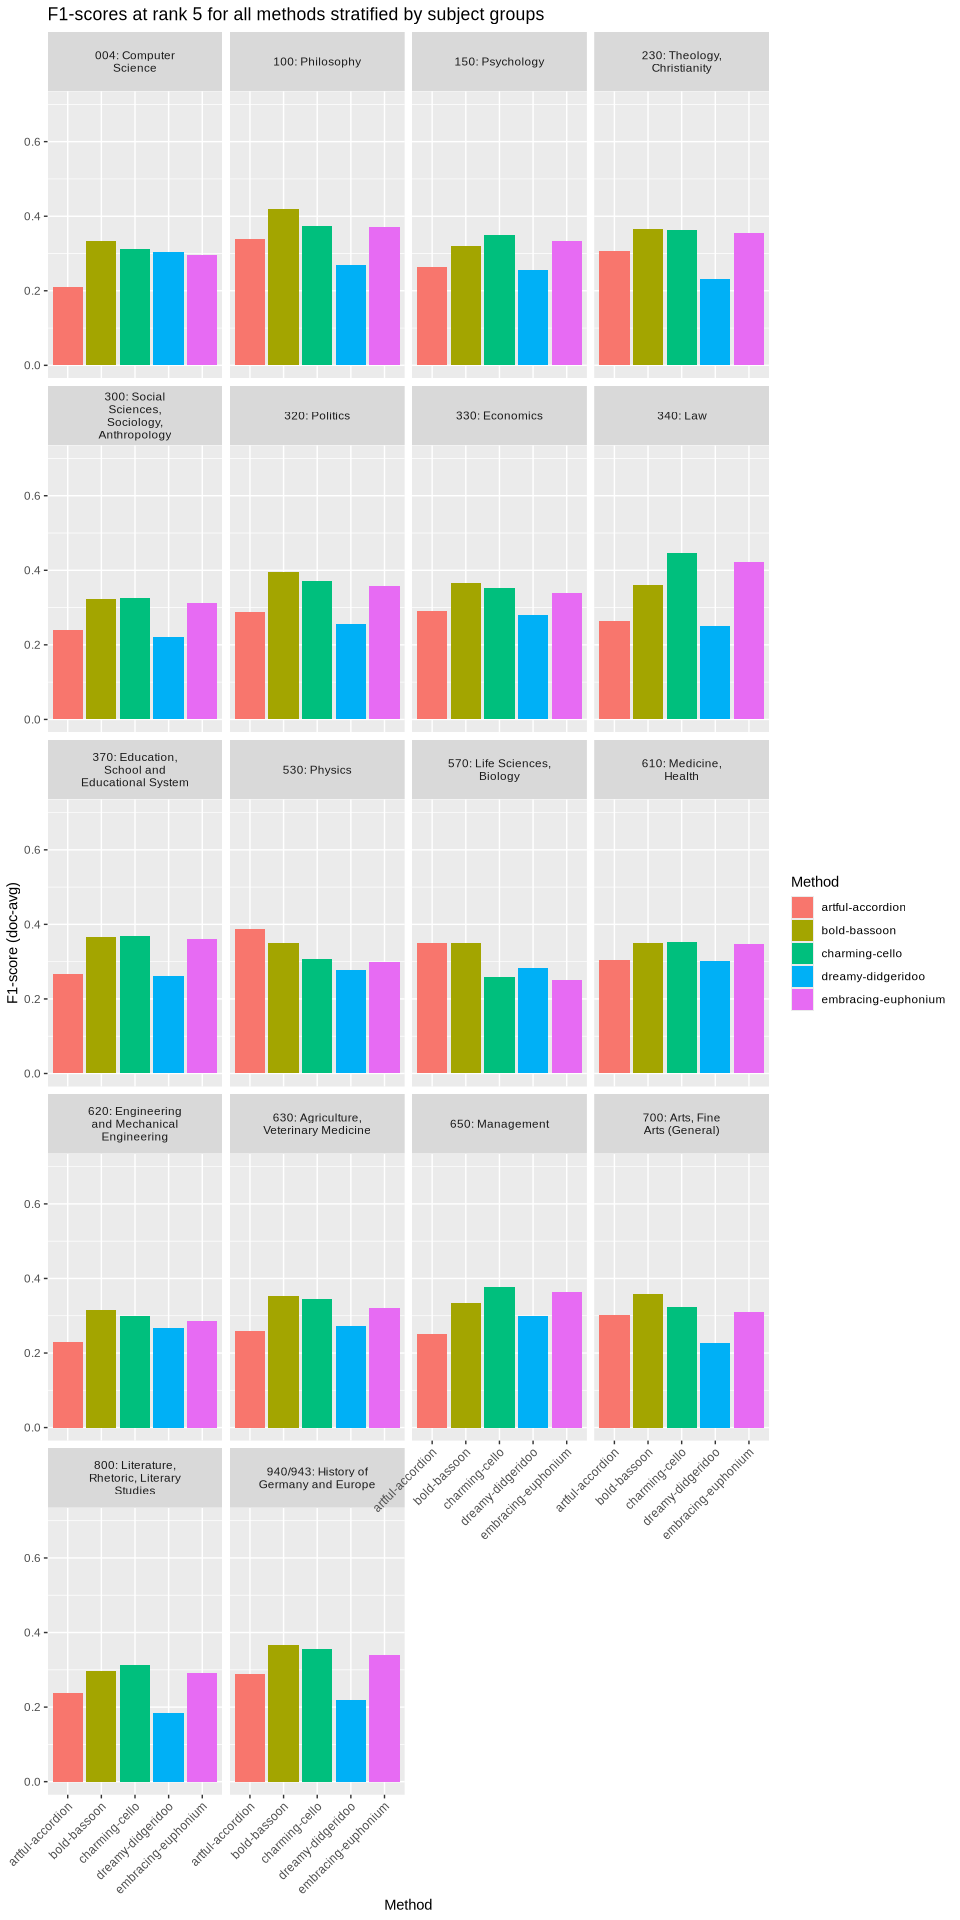
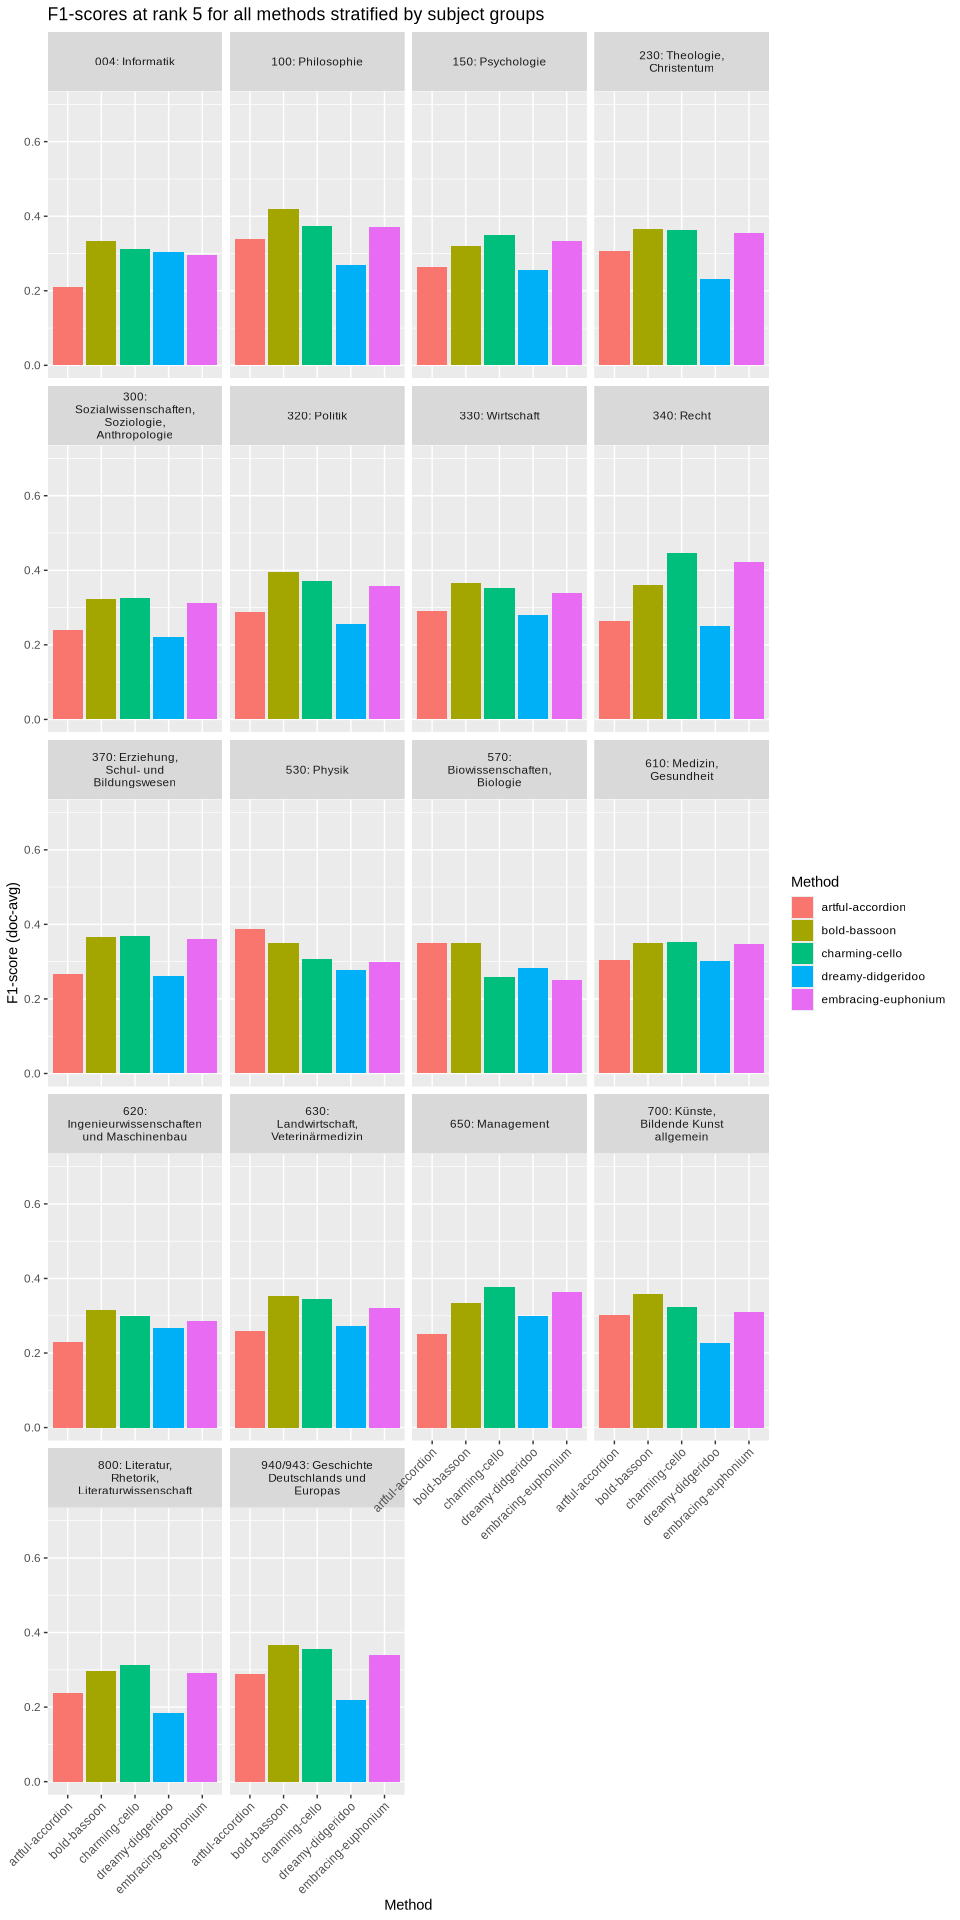
Correct Typos and switch default language to _ger in example output
Correct Typos and switch default language to _ger in example output

* switch examples to _ger version in default

* update md file for wb 06

---------

diff --git a/workbooks/02_set-retrieval-metrics.md b/workbooks/02_set-retrieval-metrics.md
@@ -3,8 +3,8 @@ Maximilian Kähler, DNB
 
 - [Computing overall set retrieval
   metrics](#computing-overall-set-retrieval-metrics)
-- [Finding buttom and top performerming
-  labels](#finding-buttom-and-top-performerming-labels)
+- [Finding buttom and top performing
+  labels](#finding-buttom-and-top-performing-labels)
 - [Your Turn](#your-turn)
 - [Bonus: A short digression to modes of
   aggregation](#bonus-a-short-digression-to-modes-of-aggregation)
@@ -99,7 +99,7 @@ results <- map_dfr(
   .id = "Method"
 )
 
-# bring results to wide tible for better display
+# bring results to wide table for better display
 results |> 
   select(-support) |> 
   pivot_wider(
@@ -155,10 +155,10 @@ the actual values in the data table to get a true sense of the
 performance differences.
 </details>
 
-## Finding buttom and top performerming labels
+## Finding buttom and top performing labels
 
 If you want to drill down into results on subject level, CASIMiR also
-provides functions to disect results on the intermediate aggregation
+provides functions to dissect results on the intermediate aggregation
 level. The above function `compute_set_retrieval_scores()` is just a
 convenient wrapper around three steps:
 
@@ -167,7 +167,7 @@ convenient wrapper around three steps:
 2.  `compute_intermediate_results()`: computes true positives, false
     positives, and false negatives on the desired aggregation level (per
     document or per subject).
-3.  `summarise_intermediate_results()` computes avarages of the
+3.  `summarise_intermediate_results()` computes averages of the
     intermediate results to yield the final precision, recall, and
     F1-score.
 
@@ -176,7 +176,7 @@ for `artful-accordion`.
 
 ``` r
 label_texts <- read_csv("../data/gnd_pref-labels_w-translation.csv",
-                        col_select = c("label_id", "label_text_eng"))
+                        col_select = c("label_id", "label_text_ger"))
 
 # join predictions with gold standard for one method
 comp <- create_comparison(
@@ -196,35 +196,35 @@ intermed <- compute_intermediate_results(
 intermed |>
   filter(n_gold > 20) |> 
   arrange(desc(f1)) |> 
-  select(label_id, label_text_eng, tp, fp, fn, prec, rec, f1) |> 
+  select(label_id, label_text_ger, tp, fp, fn, prec, rec, f1) |> 
   head(n = 10) |> 
   kable(
-    caption = "Best performing subject terms for artful-accordion with a mininimum of
+    caption = "Best performing subject terms for artful-accordion with a minimum of
      20 gold standard instances."
   )
 ```
 
-| label_id  | label_text_eng             |  tp |  fp |  fn |      prec |       rec |        f1 |
+| label_id  | label_text_ger             |  tp |  fp |  fn |      prec |       rec |        f1 |
 |:----------|:---------------------------|----:|----:|----:|----------:|----------:|----------:|
 | 118559796 | Kant, Immanuel (1724-1804) |  20 |   5 |   7 | 0.8000000 | 0.7407407 | 0.7692308 |
 | 040402223 | Moral                      |  20 |  11 |   4 | 0.6451613 | 0.8333333 | 0.7272727 |
-| 040464962 | Poland                     |  16 |   1 |  11 | 0.9411765 | 0.5925926 | 0.7272727 |
-| 040598276 | Thermodynamics             |  15 |   3 |   9 | 0.8333333 | 0.6250000 | 0.7142857 |
-| 04045956X | Physics                    |  44 |  31 |   7 | 0.5866667 | 0.8627451 | 0.6984127 |
-| 040300463 | Cat                        |  19 |  16 |   2 | 0.5428571 | 0.9047619 | 0.6785714 |
+| 040464962 | Polen                      |  16 |   1 |  11 | 0.9411765 | 0.5925926 | 0.7272727 |
+| 040598276 | Thermodynamik              |  15 |   3 |   9 | 0.8333333 | 0.6250000 | 0.7142857 |
+| 04045956X | Physik                     |  44 |  31 |   7 | 0.5866667 | 0.8627451 | 0.6984127 |
+| 040300463 | Katze                      |  19 |  16 |   2 | 0.5428571 | 0.9047619 | 0.6785714 |
 | 040489469 | Reformation                |  13 |   5 |   9 | 0.7222222 | 0.5909091 | 0.6500000 |
-| 040306380 | Childcare facility         |  13 |   6 |   9 | 0.6842105 | 0.5909091 | 0.6341463 |
-| 974041238 | Resilience                 |  13 |   1 |  14 | 0.9285714 | 0.4814815 | 0.6341463 |
-| 042979293 | Mindfulness                |  12 |   4 |  10 | 0.7500000 | 0.5454545 | 0.6315789 |
+| 040306380 | Kindertagesstätte          |  13 |   6 |   9 | 0.6842105 | 0.5909091 | 0.6341463 |
+| 974041238 | Resilienz                  |  13 |   1 |  14 | 0.9285714 | 0.4814815 | 0.6341463 |
+| 042979293 | Achtsamkeit                |  12 |   4 |  10 | 0.7500000 | 0.5454545 | 0.6315789 |
 
-Best performing subject terms for artful-accordion with a mininimum of
-20 gold standard instances.
+Best performing subject terms for artful-accordion with a minimum of 20
+gold standard instances.
 
 ``` r
 intermed |>
   filter(n_gold > 20) |> 
   arrange(f1) |> 
-  select(label_id, label_text_eng, tp, fp, fn, prec, rec, f1) |> 
+  select(label_id, label_text_ger, tp, fp, fn, prec, rec, f1) |> 
   head(n = 10) |> 
   kable(
     caption = "Worst performing subject terms for artful-accordion with a minimum of
@@ -232,18 +232,18 @@ intermed |>
   )
 ```
 
-| label_id | label_text_eng | tp | fp | fn | prec | rec | f1 |
+| label_id | label_text_ger | tp | fp | fn | prec | rec | f1 |
 |:---|:---|---:|---:|---:|---:|---:|---:|
-| 040205487 | Gender Ratio | 0 | 1 | 25 | 0.0000000 | 0.0000000 | 0.0000000 |
-| 040300056 | Catholic theology | 0 | 1 | 22 | 0.0000000 | 0.0000000 | 0.0000000 |
-| 040665968 | Scientific manuscript | 0 | 0 | 34 | NA | 0.0000000 | 0.0000000 |
-| 041849450 | Text production | 0 | 1 | 25 | 0.0000000 | 0.0000000 | 0.0000000 |
-| 042090377 | Testing site | 0 | 4 | 27 | 0.0000000 | 0.0000000 | 0.0000000 |
-| 949300403 | Python (Programming Language) | 0 | 0 | 21 | NA | 0.0000000 | 0.0000000 |
-| 965002845 | Inclusion (Sociology) | 0 | 0 | 22 | NA | 0.0000000 | 0.0000000 |
-| 041132920 | German | 4 | 180 | 23 | 0.0217391 | 0.1481481 | 0.0379147 |
-| 040158330 | Protestant Church | 1 | 5 | 44 | 0.1666667 | 0.0222222 | 0.0392157 |
-| 040124754 | Discourse | 2 | 14 | 32 | 0.1250000 | 0.0588235 | 0.0800000 |
+| 040205487 | Geschlechterverhältnis | 0 | 1 | 25 | 0.0000000 | 0.0000000 | 0.0000000 |
+| 040300056 | Katholische Theologie | 0 | 1 | 22 | 0.0000000 | 0.0000000 | 0.0000000 |
+| 040665968 | Wissenschaftliches Manuskript | 0 | 0 | 34 | NA | 0.0000000 | 0.0000000 |
+| 041849450 | Textproduktion | 0 | 1 | 25 | 0.0000000 | 0.0000000 | 0.0000000 |
+| 042090377 | Prüfstand | 0 | 4 | 27 | 0.0000000 | 0.0000000 | 0.0000000 |
+| 949300403 | Python (Programmiersprache) | 0 | 0 | 21 | NA | 0.0000000 | 0.0000000 |
+| 965002845 | Inklusion (Soziologie) | 0 | 0 | 22 | NA | 0.0000000 | 0.0000000 |
+| 041132920 | Deutsch | 4 | 180 | 23 | 0.0217391 | 0.1481481 | 0.0379147 |
+| 040158330 | Evangelische Kirche | 1 | 5 | 44 | 0.1666667 | 0.0222222 | 0.0392157 |
+| 040124754 | Diskurs | 2 | 14 | 32 | 0.1250000 | 0.0588235 | 0.0800000 |
 
 Worst performing subject terms for artful-accordion with a minimum of 20
 gold standard instances.
@@ -297,7 +297,7 @@ avoids zero-division issues. To be coherent with other packages like
 [scikit-learn](https://scikit-learn.org/stable/modules/generated/sklearn.metrics.f1_score.html),
 you can change this behaviour by using the argument
 `replace_zero_division_with = 0` which will set precision to 0 for
-documents or subject terms with no predictions, if they have occurences
+documents or subject terms with no predictions, if they have occurrences
 in the gold standard.
 
 Observe how much this can influence the overall value of precision and

diff --git a/workbooks/01_inspecting-results-manually.md b/workbooks/01_inspecting-results-manually.md
@@ -88,7 +88,7 @@ the document.
 ### Gold Standard Data
 
 Each of the document titles was manually annotated by subject experts of
-the DNB with subject terms from the Inegrated Authority File (GND).
+the DNB with subject terms from the Integrated Authority File (GND).
 Similar to the document identifiers, each GND subject term has a unique
 identifier, the `label_id`, which can be resolved to the official GND
 record by prefixing the base-url `https://d-nb.info/`,
@@ -123,7 +123,7 @@ head(gold_standard_w_labels)
     5 1122545479 042718368 Prädiktive Regelung Predictive Control 
     6 1122545479 043049168 Systemmodell        System model       
 
-For the rest of this tutorial This is our gold standard data that we
+For the rest of this tutorial this is our gold standard data that we
 compare against.
 
 ### Predictions
@@ -196,7 +196,7 @@ comp <- create_comparison(
 ```
 
     Warning in create_comparison(predicted = predictions[["artful-accordion"]], :
-    Gold standard data contains documents that are not in predicted set.
+    gold standard data contains documents that are not in predicted set
 
 ``` r
 # display table for a specific document
@@ -235,13 +235,13 @@ sample_docs <- sample_n(doc_titles, size = 5)
 #   doc_id = c("1128159244", "1223180417", "1168229987")
 # )
 
-# modify `_eng` to `_ger` to see German original texts
+# modify `_ger` to `_eng` to see AI translated english texts
 qual_table <- create_qualitative_table(
   predicted = predictions,
   gold_standard = gold_standard,
   doc_id_list = select(sample_docs, doc_id),
-  gnd = select(gnd_pref_labels, label_id, label_text = label_text_eng),
-  title_texts = select(doc_titles, doc_id, title = doc_title_eng),
+  gnd = select(gnd_pref_labels, label_id, label_text = label_text_ger),
+  title_texts = select(doc_titles, doc_id, title = doc_title_ger),
   limit = 5 # how many suggestions per method to consider?
 )
 

diff --git a/data/README.md b/data/README.md
@@ -19,7 +19,7 @@ DNB's catalogue is provided under a
 LICENSE and may be freely used. 
 Each intentifier can be resolved using the DNB's catalogue, by prefixing
 `https://d-nb.info/`, e.g. `doc_id = 1122545479` can be resolved to
-<https://d-nb.info/1122545479>, to access the full bilbiographic record.
+<https://d-nb.info/1122545479>, to access the full bibliographic record.
 
 ## Test-Set
 
@@ -193,7 +193,7 @@ format:
 
   * `doc_id`: Identifier for documents
   * `label_id`: Identifier for the GND label
-  * `score`: Machine based confidence score for the prediction (higher is better)
+  * `score`: Machine based confidence score for the prediction (higher is more confident)
   * `relevance`: Manual expert rating on relevance
 
 Relevance ratings take values (0,1/3,2/3,1) corresponding to an ordinal rating
@@ -204,13 +204,13 @@ of
   * `1/3`: slightly useful
   * `0`: wrong
 
-where the usefulness relates to how useful a subject suggestions would be for a
+where the usefulness relates to how useful a subject suggestion would be for a
 user from the retrieval perspective. 
 
 Corresponding to the graded relevance data there are document titles and
 machine based translations in the file 
 `graded_relevance/doc_titles_w-translations.csv` that match the documents
-for the graded relvance sample. Columns:
+for the graded relevance sample. Columns:
 
   - `doc_id`: DNB Identifier for documents
   - `doc_title_ger`: German title of the document

diff --git a/workbooks/03_stratified-set-retrieval-metrics.md b/workbooks/03_stratified-set-retrieval-metrics.md
@@ -173,7 +173,7 @@ res_at_5_by_sg_all_methods  |>
   ylim(0, 0.7) +
   geom_bar(stat = "identity", position = "dodge") +
   facet_wrap(
-    vars(paste0(sg, ": ", sg_label_eng)),
+    vars(paste0(sg, ": ", sg_label_ger)),
     ncol = 4,
     labeller = label_wrap_gen(width = 20)
   ) +
@@ -346,7 +346,7 @@ types may have very few associated labels.
 
 ``` r
 res_at_5_by_entity_type_all_methods  |>
-  filter(metric == "f1", label_entitytype_eng != "NA") |>
+  filter(metric == "f1", label_entitytype_ger != "NA") |>
   ggplot(aes(x = Method, y = value, fill = Method)) +
   ylim(0, 0.7) +
   geom_bar(stat = "identity", position = "dodge") +
@@ -356,7 +356,7 @@ res_at_5_by_entity_type_all_methods  |>
     position = "dodge"
   ) +
   facet_wrap(
-    vars(label_entitytype_eng),
+    vars(label_entitytype_ger),
     ncol = 3,
     labeller = label_wrap_gen(width = 20)
   ) +

diff --git a/workbooks/06_final-assignment.md b/workbooks/06_final-assignment.md
@@ -18,8 +18,8 @@ the methods? As a reminder: the five methods we have in our pool are:
 - **LLM-Ensemble**: An ensmble of LLMs used with a few-shot-prompting
   approach
 
-Hint: The frequency based analysis in workbook 04 is key to this. But
-going back to the qualitative comparison in workbook 00 might also help
+Hint: The frequency based analysis in workbook 05 is key to this. But
+going back to the qualitative comparison in workbook 01 might also help
 to discern the methods.
 
 What are your conclusions? Which method would you choose for a

diff --git a/workbooks/07_evaluating-graded-relevance-ratings.md b/workbooks/07_evaluating-graded-relevance-ratings.md
@@ -67,8 +67,8 @@ example_table <- create_qualitative_table_single_model(
     predicted = predictions_w_relevance[[method_name]],
     gold_standard = gold_standards[[method_name]],
     doc_id_list = documents,
-    title_texts = select(doc_titles, doc_id, title = doc_title_eng),
-    gnd = select(gnd, label_id, label_text = label_text_eng),
+    title_texts = select(doc_titles, doc_id, title = doc_title_ger),
+    gnd = select(gnd, label_id, label_text = label_text_ger),
     graded_relevance = TRUE
 ) |> 
   group_by(doc_id, title_text)  |> 
